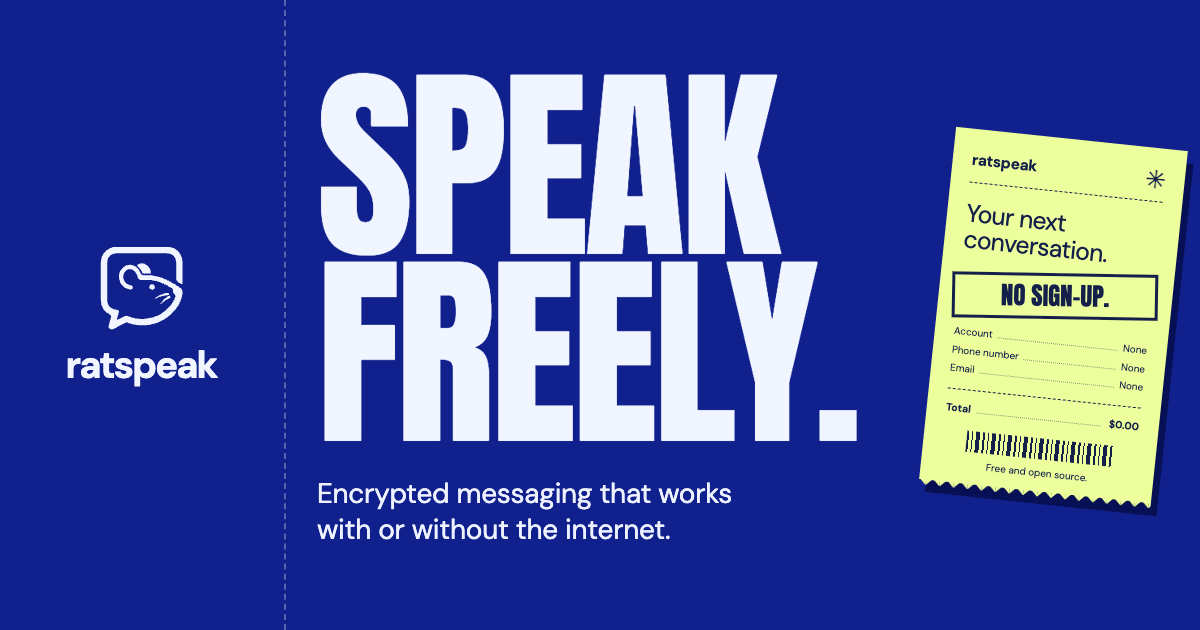
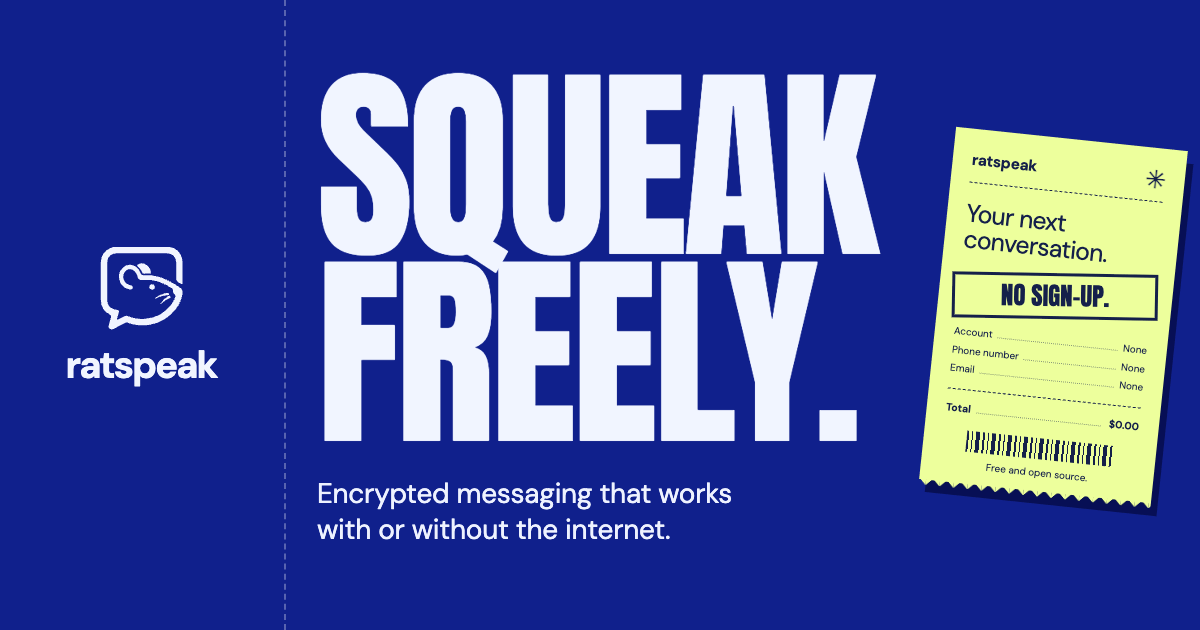
Hero and share card: Squeak freely.

Changed region(s): [[0.3392, 0.1206, 0.74, 0.4222], [0.37, 0.0905, 0.4008, 0.1206], [0.3392, 0.1206, 0.37, 0.1508]]

diff --git a/index.html b/index.html
@@ -13,9 +13,9 @@
   <meta name="application-name" content="Ratspeak"><meta name="apple-mobile-web-app-title" content="Ratspeak">
   <meta property="og:type" content="website"><meta property="og:locale" content="en_US"><meta property="og:site_name" content="Ratspeak">
   <meta property="og:title" content="Ratspeak.org — A New Network"><meta property="og:description" content="End-to-end encrypted messenger for desktop, mobile, and LoRa handhelds. If the internet goes down, messages can still travel over Wi-Fi, Bluetooth, or radio."><meta property="og:url" content="https://ratspeak.org/">
-  <meta property="og:image" content="https://ratspeak.org/assets/seo/og-home.png"><meta property="og:image:width" content="1200"><meta property="og:image:height" content="630"><meta property="og:image:alt" content="Ratspeak: speak freely. Encrypted messaging over the internet, Wi-Fi, Bluetooth, or radio.">
+  <meta property="og:image" content="https://ratspeak.org/assets/seo/og-home.png"><meta property="og:image:width" content="1200"><meta property="og:image:height" content="630"><meta property="og:image:alt" content="Ratspeak: squeak freely. Encrypted messaging over the internet, Wi-Fi, Bluetooth, or radio.">
   <meta name="twitter:card" content="summary_large_image"><meta name="twitter:site" content="@ratspeakorg"><meta name="twitter:title" content="Ratspeak.org — A New Network"><meta name="twitter:description" content="End-to-end encrypted messenger for desktop, mobile, and LoRa handhelds. If the internet goes down, messages can still travel over Wi-Fi, Bluetooth, or radio.">
-  <meta name="twitter:image" content="https://ratspeak.org/assets/seo/og-home.png"><meta name="twitter:image:alt" content="Ratspeak: speak freely. Encrypted messaging over the internet, Wi-Fi, Bluetooth, or radio.">
+  <meta name="twitter:image" content="https://ratspeak.org/assets/seo/og-home.png"><meta name="twitter:image:alt" content="Ratspeak: squeak freely. Encrypted messaging over the internet, Wi-Fi, Bluetooth, or radio.">
   <script type="application/ld+json">[{"@context": "https://schema.org", "@type": "Organization", "name": "Ratspeak", "url": "https://ratspeak.org", "logo": "https://ratspeak.org/assets/seo/web-app-icon-512.png", "description": "End-to-end encrypted messenger for desktop, mobile, and LoRa handhelds. If the internet goes down, messages can still travel over Wi-Fi, Bluetooth, or radio.", "sameAs": ["https://github.com/ratspeak"]}, {"@context": "https://schema.org", "@type": "WebSite", "name": "Ratspeak", "url": "https://ratspeak.org/"}]</script>
   <link rel="preload" href="/assets/fonts/anton.woff2" as="font" type="font/woff2" crossorigin>
   <link rel="stylesheet" href="/assets/site/site.css"><link rel="stylesheet" href="/assets/site/home.css">
@@ -34,7 +34,7 @@
   <div class="band">
     <div class="poster-container">
       <section class="poster" aria-labelledby="poster-title">
-        <h1 id="poster-title"><span class="sr-only">Speak freely.</span><span class="ln ln-1" aria-hidden="true">Speak</span> <span class="ln ln-2" aria-hidden="true">freely.</span></h1>
+        <h1 id="poster-title"><span class="sr-only">Squeak freely.</span><span class="ln ln-1" aria-hidden="true">Squeak</span> <span class="ln ln-2" aria-hidden="true">freely.</span></h1>
         <div class="poster-foot">
           <p class="poster-sub">End-to-end encrypted messenger for desktop, mobile, and LoRa handhelds. If the internet goes down, messages can still travel over Wi-Fi, Bluetooth, or radio.</p>
           <div class="poster-cta">

diff --git a/assets/site/home.css b/assets/site/home.css
@@ -1,7 +1,7 @@
-/* hero: SPEAK / FREELY. at one size (--hl), sized so FREELY. (2.565em) fits beside the receipt and
+/* hero: SQUEAK / FREELY. at one size (--hl), sized so SQUEAK (2.648em) fits beside the receipt and
    height-bounded so the CTA row stays above the fold, then eased to .88 of that fit; the hero fills
    the first screen with the spare height split above and below */
-.poster{--s:clamp(11px,min(1.1vw,1.9svh),18px);--pt:clamp(28px,3vw,48px);--bar:80px;--fold:calc(var(--bar) + var(--pt) + clamp(28px,2.6vw,40px) + clamp(40px,4vw,64px) + 100px);--slip-r:2vw;--room:calc(100vw - 2 * max(var(--gutter),(100vw - var(--max)) / 2) - var(--slip-r) - clamp(32px,3vw,56px) - 20.17 * var(--s));--hl:clamp(56px,.88 * min(var(--room) / 2.565,(100svh - var(--fold)) / 1.855),352px);display:grid;grid-template-columns:minmax(0,1fr) auto;align-content:center;min-height:calc(100svh - var(--bar));position:relative;overflow-x:clip;padding:var(--pt) var(--pad-x) clamp(40px,4vw,64px)}
+.poster{--s:clamp(11px,min(1.1vw,1.9svh),18px);--pt:clamp(28px,3vw,48px);--bar:80px;--fold:calc(var(--bar) + var(--pt) + clamp(28px,2.6vw,40px) + clamp(40px,4vw,64px) + 100px);--slip-r:2vw;--room:calc(100vw - 2 * max(var(--gutter),(100vw - var(--max)) / 2) - var(--slip-r) - clamp(32px,3vw,56px) - 20.17 * var(--s));--hl:clamp(56px,.88 * min(var(--room) / 2.648,(100svh - var(--fold)) / 1.855),352px);display:grid;grid-template-columns:minmax(0,1fr) auto;align-content:center;min-height:calc(100svh - var(--bar));position:relative;overflow-x:clip;padding:var(--pt) var(--pad-x) clamp(40px,4vw,64px)}
 .poster h1{grid-area:1/1;font:400 var(--hl)/.91 Anton,Impact,sans-serif;text-transform:uppercase;margin:0 0 clamp(28px,2.6vw,40px)}
 .poster h1 .ln{display:block;letter-spacing:-.025em;white-space:nowrap}
 .poster h1 .ln-2{margin-top:.035em}
@@ -348,11 +348,11 @@ main h2{text-transform:uppercase}
   :root{--h2:clamp(36px,12.2vw,64px)}
   .block-button{min-width:240px;padding:16px 20px;font-size:17px}
 
-  /* hero: equal-width SPEAK / FREELY., then copy, CTAs and a ticket stub */
+  /* hero: equal-width SQUEAK / FREELY., then copy, CTAs and a ticket stub */
   .poster{--s:clamp(13px,3.6vw,15px);--pt:24px;display:block;min-height:0;padding-bottom:48px}
-  .poster h1{--talk:min(calc((100vw - 2 * var(--gutter)) / 2.2),30svh,240px);margin:0 0 20px}
+  .poster h1{--talk:min(calc((100vw - 2 * var(--gutter)) / 2.648),30svh,240px);margin:0 0 20px}
   .poster h1 .ln-1{font-size:var(--talk);line-height:.88}
-  .poster h1 .ln-2{font-size:calc(var(--talk) * .849);line-height:.92}
+  .poster h1 .ln-2{font-size:calc(var(--talk) * 1.032);line-height:.92}
   .poster-foot{max-width:none;flex-direction:column;align-items:stretch;gap:24px}
   .poster-sub{font-size:18px;max-width:24em}
   /* the file details sit right under the button they describe */

diff --git a/letter.html b/letter.html
@@ -13,9 +13,9 @@
   <meta name="application-name" content="Ratspeak"><meta name="apple-mobile-web-app-title" content="Ratspeak">
   <meta property="og:type" content="article"><meta property="og:locale" content="en_US"><meta property="og:site_name" content="Ratspeak">
   <meta property="og:title" content="Letter — Ratspeak"><meta property="og:description" content="A letter to the Ratspeak community: building for a shared future."><meta property="og:url" content="https://ratspeak.org/letter.html">
-  <meta property="og:image" content="https://ratspeak.org/assets/seo/og-home.png"><meta property="og:image:width" content="1200"><meta property="og:image:height" content="630"><meta property="og:image:alt" content="Ratspeak: speak freely.">
+  <meta property="og:image" content="https://ratspeak.org/assets/seo/og-home.png"><meta property="og:image:width" content="1200"><meta property="og:image:height" content="630"><meta property="og:image:alt" content="Ratspeak: squeak freely.">
   <meta name="twitter:card" content="summary_large_image"><meta name="twitter:site" content="@ratspeakorg"><meta name="twitter:title" content="Letter — Ratspeak"><meta name="twitter:description" content="A letter to the Ratspeak community: building for a shared future.">
-  <meta name="twitter:image" content="https://ratspeak.org/assets/seo/og-home.png"><meta name="twitter:image:alt" content="Ratspeak: speak freely.">
+  <meta name="twitter:image" content="https://ratspeak.org/assets/seo/og-home.png"><meta name="twitter:image:alt" content="Ratspeak: squeak freely.">
   <link rel="preload" href="/assets/fonts/anton.woff2" as="font" type="font/woff2" crossorigin>
   <link rel="stylesheet" href="/assets/site/site.css"><link rel="stylesheet" href="/assets/site/pages.css"><link rel="stylesheet" href="/assets/site/letter.css">
   <script src="/assets/site/theme.js" defer></script>

diff --git a/404.html b/404.html
@@ -12,9 +12,9 @@
   <meta name="application-name" content="Ratspeak"><meta name="apple-mobile-web-app-title" content="Ratspeak">
   <meta property="og:type" content="website"><meta property="og:locale" content="en_US"><meta property="og:site_name" content="Ratspeak">
   <meta property="og:title" content="Page not found — Ratspeak"><meta property="og:description" content="This page isn’t on ratspeak.org. Head home, download Ratspeak, or read the docs.">
-  <meta property="og:image" content="https://ratspeak.org/assets/seo/og-home.png"><meta property="og:image:width" content="1200"><meta property="og:image:height" content="630"><meta property="og:image:alt" content="Ratspeak: speak freely.">
+  <meta property="og:image" content="https://ratspeak.org/assets/seo/og-home.png"><meta property="og:image:width" content="1200"><meta property="og:image:height" content="630"><meta property="og:image:alt" content="Ratspeak: squeak freely.">
   <meta name="twitter:card" content="summary_large_image"><meta name="twitter:site" content="@ratspeakorg"><meta name="twitter:title" content="Page not found — Ratspeak"><meta name="twitter:description" content="This page isn’t on ratspeak.org. Head home, download Ratspeak, or read the docs.">
-  <meta name="twitter:image" content="https://ratspeak.org/assets/seo/og-home.png"><meta name="twitter:image:alt" content="Ratspeak: speak freely.">
+  <meta name="twitter:image" content="https://ratspeak.org/assets/seo/og-home.png"><meta name="twitter:image:alt" content="Ratspeak: squeak freely.">
   <link rel="preload" href="/assets/fonts/anton.woff2" as="font" type="font/woff2" crossorigin>
   <link rel="stylesheet" href="/assets/site/site.css"><link rel="stylesheet" href="/assets/site/pages.css">
   <script src="/assets/site/theme.js" defer></script>
